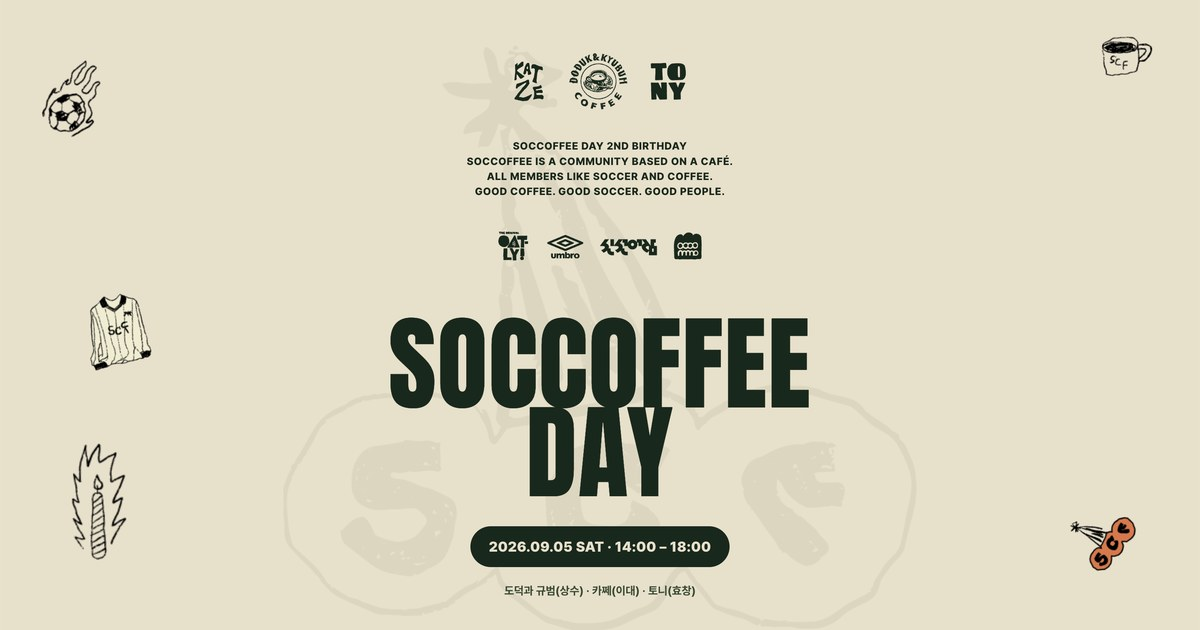
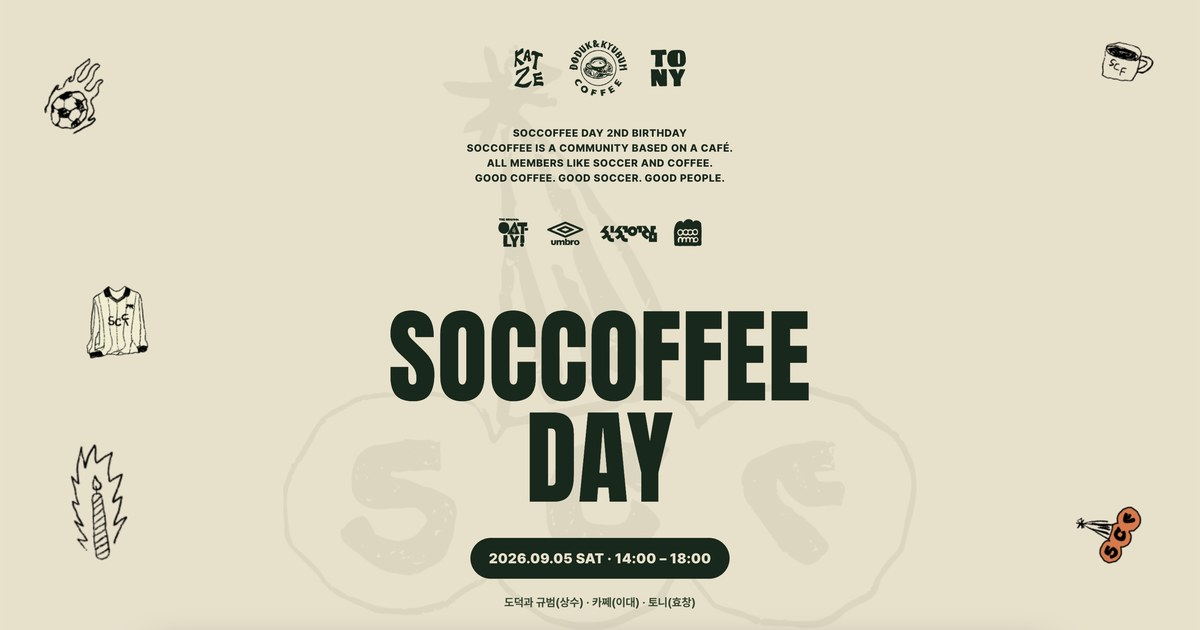
feat: 싸커피 데이 — 대표 이미지 교체(og v2)

diff --git a/day/index.html b/day/index.html
@@ -9,7 +9,7 @@
 <meta property="og:type" content="website">
 <meta property="og:title" content="싸커피 데이 — 2026.09.05(토)">
 <meta property="og:description" content="카페에서 만나는 축구 문화. 도덕과 규범 · 카쩨 · 토니, 14–18시.">
-<meta property="og:image" content="https://xeunghan-ui.github.io/soccoffee/img/day/day-og.jpg?v=1">
+<meta property="og:image" content="https://xeunghan-ui.github.io/soccoffee/img/day/day-og.jpg?v=2">
 <meta property="og:image:width" content="1200">
 <meta property="og:image:height" content="630">
 <meta property="og:image:alt" content="싸커피 데이 2026.09.05">
@@ -19,7 +19,7 @@
 <meta name="twitter:card" content="summary_large_image">
 <meta name="twitter:title" content="싸커피 데이 — 2026.09.05(토)">
 <meta name="twitter:description" content="카페에서 만나는 축구 문화. 도덕과 규범 · 카쩨 · 토니, 14–18시.">
-<meta name="twitter:image" content="https://xeunghan-ui.github.io/soccoffee/img/day/day-og.jpg?v=1">
+<meta name="twitter:image" content="https://xeunghan-ui.github.io/soccoffee/img/day/day-og.jpg?v=2">
 <meta http-equiv="refresh" content="0; url=../day.html">
 <script>location.replace('../day.html' + location.search + location.hash);</script>
 <style>body{margin:0;background:#E8E0C8;color:#15281B;font-family:Pretendard,-apple-system,system-ui,sans-serif;display:grid;place-items:center;min-height:100vh}a{color:inherit;font-weight:800}</style>

diff --git a/day.html b/day.html
@@ -9,7 +9,7 @@
 <meta property="og:type" content="website">
 <meta property="og:title" content="싸커피 데이 — 2026.09.05(토)">
 <meta property="og:description" content="카페에서 만나는 축구 문화. 도덕과 규범 · 카쩨 · 토니, 14–18시.">
-<meta property="og:image" content="https://xeunghan-ui.github.io/soccoffee/img/day/day-og.jpg?v=1">
+<meta property="og:image" content="https://xeunghan-ui.github.io/soccoffee/img/day/day-og.jpg?v=2">
 <meta property="og:image:width" content="1200">
 <meta property="og:image:height" content="630">
 <meta property="og:image:alt" content="싸커피 데이 2026.09.05">
@@ -18,7 +18,7 @@
 <meta name="twitter:card" content="summary_large_image">
 <meta name="twitter:title" content="싸커피 데이 — 2026.09.05(토)">
 <meta name="twitter:description" content="카페에서 만나는 축구 문화. 도덕과 규범 · 카쩨 · 토니, 14–18시.">
-<meta name="twitter:image" content="https://xeunghan-ui.github.io/soccoffee/img/day/day-og.jpg?v=1">
+<meta name="twitter:image" content="https://xeunghan-ui.github.io/soccoffee/img/day/day-og.jpg?v=2">
 <meta property="og:url" content="https://xeunghan-ui.github.io/soccoffee/day.html">
 <link rel="preconnect" href="https://fonts.googleapis.com"><link rel="preconnect" href="https://fonts.gstatic.com" crossorigin>
 <link href="https://fonts.googleapis.com/css2?family=Anton&display=swap" rel="stylesheet">
